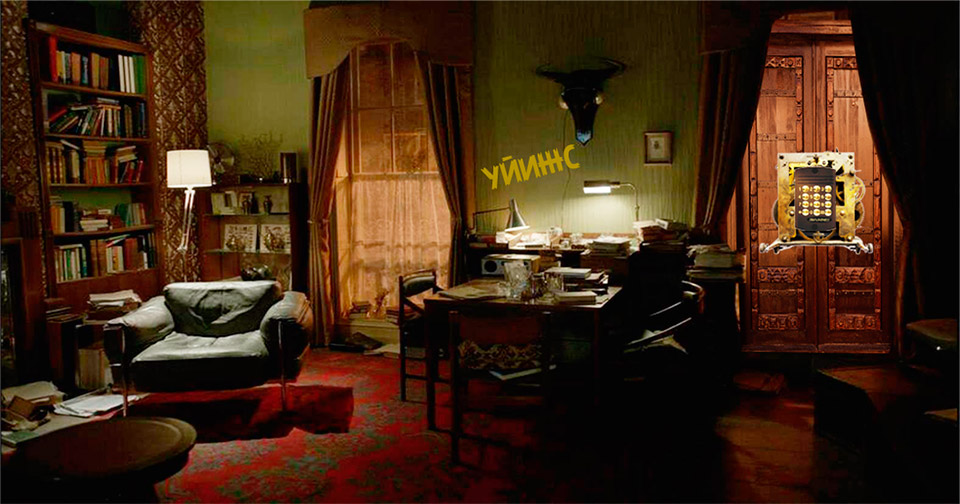
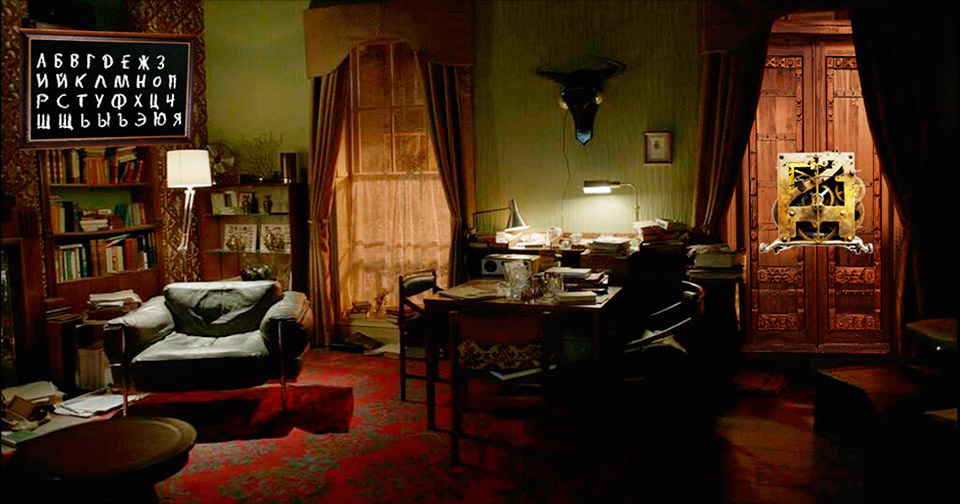
screens with objects

Changed region(s): [[0.0, 0.0595, 0.2188, 0.2976], [0.8125, 0.3274, 0.875, 0.4762], [0.5, 0.2976, 0.5938, 0.3869]]

diff --git a/data/screens.js b/data/screens.js
@@ -95,54 +95,61 @@ var SCREENS = {
 
 	"room_with_objects": {
 		"bg":			"room.jpg",
+		"character": 	"sherlock", 
 		"type":			"select",
 		"speech":		"Хм, пустота.  Вопрос в том, куда все подевались и как пройти дальше?",
 		"objects":		[
 			{
+				"img":		"code.png",
+				"position":	[730,110],
+				"right":	false,
+				"response": "speech::Какой-то кодовый замок.. Надо поискать ключ к разгадке!"	
+			},
+			{
 				"img":		"abgymnic.png",
-				"position":	[0,0],
+				"position":	[280,350],
 				"right":	false,
 				"response": "speech::Решил похудеть и просочиться в дверную щель? Гениально… Зачем я только взял тебя с собой?"
 			},
 			{
 				"img":		"monk_tea.png",
-				"position":	[0,0],
+				"position":	[0,300],
 				"right":	false,
 				"response":	"speech::Сейчас не 4 o'clock. Чаепитие(хотя это и чаем не назовешь) подождет"
 			},
 			{
-				"img":		"tital_gel.png",
-				"position":	[0,0],
+				"img":		"titan_gel.png",
+				"position":	[760,240],
 				"right":	false,
 				"response": "speech::Я уже сомневаюсь, что ты привел меня в пустую комнату искать профит… Может вернемся к делу?"
 			},
 			{
 				"img":		"banana.png",
-				"position":	[0,0],
+				"position":	[550,10],
 				"right":	false,
 				"response": "speech::Это еще что? Не могу представить себе, зачем такие пошлости на работе? Что можно рекламировать ЭТИМ?"
 			},
 			{
 				"img":		"dumplings.png",
-				"position":	[0,0],
+				"position":	[160,-30],
 				"right":	false,
 				"response": "speech::Вы все помешаны на пельмешках? Или это такое плоское чувство юмора?"
 			},
 			{
 				"img":		"waiter.png",
-				"position":	[0,0],
+				"position":	[90,130],
 				"right":	false,
 				"response": "speech::Даже ждун устал наблюдать за твоими попытками… Напрягись, арбитражник!"
 			},
 			{
 				"img":		"games.png",
-				"position":	[0,0],
+				"position":	[240,105],
 				"right":	false,
 				"response": "speech::Отличная мысль. Не завод, так игровые автоматы! Гениально… Зачем тебе вообще профит?"
 			},
 			{
 				"img":		"cipher.png",
-				"position":	[0,0],
+				"position":	[280,20],
 				"right":	true
 			},
 		],
@@ -165,67 +172,67 @@ var SCREENS = {
 		"objects":		[
 			{
 				"img":		"computer.png",
-				"position":	[0,0],
+				"position":	[230,280],
 				"right":	true,
 				"response":	"speech:sherlock::Главное оружие найдено. Но не каждый человек с компьютером — арбитражник. Что еще?"
 			},
 			{
 				"img":		"conversion.png",
-				"position": [20,0],
+				"position": [340,0],
 				"right":	true,
 				"response":	"speech:sherlock::Концентрат полезной информации по манимейкингу в одном месте? Да, это нам пригодится."
 			},
 			{
 				"img":		"sedative.png",
-				"position":	[40,0],
+				"position":	[760,280],
 				"right":	true,
 				"response":	"speech:sherlock::Крепкая нервная система пригодится тебе в борьбе с пельменной."
 			},
 			{
 				"img":		"vodka.png",
-				"position":	[0,100],
+				"position":	[-30,150],
 				"right":	false,
 				"response":	"speech:sherlock::Я, конечно, слышал, что под алкоголем придумываются лучшие связки, но не в твоем случае"
 			},
 			{
 				"img":		"whiskey.png",
-				"position":	[30,100],
+				"position":	[160,260],
 				"right":	false,
 				"response":	"speech:sherlock::Благородный ирландский напиток. Но, его пьют только те, у кого есть профит. У тебя есть?"
 			},
 			{
 				"img":		"headphones.png",
-				"position":	[60,100],
+				"position":	[-20,-10],
 				"right":	false,
 				"response":	"speech:sherlock::Хочешь слушать звук монеток падающих на WebMoney? Без профита тебе это не пригодится"
 			},
 			{
-				"img":		"cigaretes.png",
-				"position":	[90,100],
+				"img":		"cigarettes.png",
+				"position":	[230,370],
 				"right":	false,
 				"response":	"speech:sherlock::Ты бы еще выбрал вэйп. Можно успокоить нервы другим способом."
 			},
 			{
 				"img":		"urna.png",
-				"position":	[120,100],
+				"position":	[20,300],
 				"right":	false,
 				"response":	"speech:sherlock::Не уверен, что мусорное ведро — самый необходимый предмет. Хотя, тебе виднее."
 			},
 			{
 				"img":		"couch.png",
-				"position":	[150,100],
+				"position":	[395,225],
 				"right":	false,
 				"response":	"speech:sherlock::Да, да. Посиди. Тебе же некуда спешить..."
 			},
 			{
 				"img":		"skull.png",
-				"position":	[180,100],
+				"position":	[710,-60],
 				"right":	false,
 				"response":	"speech:sherlock::Решил призвать черную магию? Ты в каком веке живешь? Еще по дереву постучи, авось профит вернется"
 			},
 			{
 				"img":		"notes.png",
-				"position":	[210,100],
+				"position":	[110,130],
 				"right":	false,
 				"response":	"speech:sherlock::Классическая музыка, конечно, улучшает мозговую активность, но тебе нужны более практичные предметы"
 			}

diff --git a/css/style.css b/css/style.css
@@ -66,8 +66,13 @@ body {
   position: absolute;
   cursor: pointer;
 }
+#task .object:hover {
+  -webkit-filter: drop-shadow(0px 0px 20px #fffe00);
+  filter: drop-shadow(0px 0px 20px #fffe00);
+}
 #task .object.selected {
-  box-shadow: 1px 1px black;
+  -webkit-filter: drop-shadow(0px 0px 20px #00ff00);
+  filter: drop-shadow(0px 0px 20px #00ff00);
 }
 #bg {
   position: absolute;
@@ -115,6 +120,27 @@ button:hover:after {
   /* Safari */
   transform: rotate(0deg);
   transition: transform 0.5s ease-in-out;
+}
+#actions .input_wrapper {
+  position: absolute;
+  bottom: -25px;
+  z-index: 0;
+  border-style: solid;
+  border-width: 25px 25px 25px 25px;
+  -moz-border-image: url(/img/ui/button-border.png) 25 25 25 25 round;
+  -webkit-border-image: url(/img/ui/button-border.png) 25 25 25 25 round;
+  -o-border-image: url(/img/ui/button-border.png) 25 25 25 25 round;
+  border-image: url(/img/ui/button-border.png) 25 25 25 25 round;
+}
+#actions .input_wrapper input[type="text"] {
+  border: none;
+  z-index: 1;
+  background-color: white;
+  font-family: "Baron Neue";
+  font-size: 24px;
+  line-height: 60px;
+  padding-left: 20px;
+  padding-right: 20px;
 }
 #actions button {
   position: absolute;
@@ -190,6 +216,7 @@ button:hover:after {
 }
 #task.input #actions button:nth-child(2) {
   right: 40px !important;
+  font-size: 28px;
 }
 .speech_wrapper {
   position: relative;

diff --git a/less/structure/actions.less b/less/structure/actions.less
@@ -1,4 +1,5 @@
 button {
+
 	&:after {
 		z-index: 0;
 		position: absolute;
@@ -40,6 +41,30 @@ button {
 	    -webkit-transform: rotate(0deg); /* Safari */
 	    transform: rotate(0deg);
 		transition: transform 0.5s ease-in-out;
+	}
+
+	.input_wrapper {
+		position: absolute;
+		bottom: -25px;
+		z-index: 0;
+
+		border-style: solid;
+		border-width: 25px 25px 25px 25px;
+		-moz-border-image: url(/img/ui/button-border.png) 25 25 25 25 round;
+		-webkit-border-image: url(/img/ui/button-border.png) 25 25 25 25 round;
+		-o-border-image: url(/img/ui/button-border.png) 25 25 25 25 round;
+		border-image: url(/img/ui/button-border.png) 25 25 25 25 round;
+
+		input[type="text"] {
+			border: none;
+			z-index: 1;
+			background-color: white;
+			font-family: "Baron Neue";
+			font-size: 24px;
+			line-height: 60px;
+			padding-left: 20px;
+			padding-right: 20px;
+		}
 	}
 
 	button {
@@ -133,6 +158,7 @@ button {
 		#actions {
 			button:nth-child(2) {
 				right: 40px !important;
+				font-size: 28px;
 			}
 		}
 	}

diff --git a/js/view.js b/js/view.js
@@ -72,15 +72,20 @@ View.prototype.renderButton = function(buttonObject, callback) {
 View.prototype.renderInput = function(button_text, callback) {
 	var controller = this.controller;
 
+	input_wrapper = $('<div class="input_wrapper"></div>');
+
 	input = $('<input/>', {
 		type: 'text',
+		placeholder: 'ответ'
 	});
+
+	input_wrapper.append(input);
 
 	button = $('<button>', {
 		text: button_text
 	});
 
-	$('#actions').append(input);
+	$('#actions').append(input_wrapper);
 	$('#actions').append(button);
 
 	button.click(function() {
@@ -93,7 +98,7 @@ View.prototype.renderObject = function(object, callback) {
 	var controller = this.controller;
 
 	var objectElement = $('<img/>', {
-		src: 'img/objects/'+object.img
+		src: 'img/objects/'+this.screen.id+'/'+object.img
 	});
 
 	objectElement.addClass('object');

diff --git a/index.html b/index.html
@@ -45,6 +45,19 @@
 		</div>
 	</div>
 
+	<svg height="0" xmlns="http://www.w3.org/2000/svg">
+	    <filter id="drop-shadow">
+	        <feGaussianBlur in="SourceAlpha" stdDeviation="4"/>
+	        <feOffset dx="12" dy="12" result="offsetblur"/>
+	        <feFlood flood-color="rgba(0,0,0,0.5)"/>
+	        <feComposite in2="offsetblur" operator="in"/>
+	        <feMerge>
+	            <feMergeNode/>
+	            <feMergeNode in="SourceGraphic"/>
+	        </feMerge>
+	    </filter>
+	</svg>
+
 	<script>
 		game = new Game();
 		game.start();

diff --git a/less/structure/task.less b/less/structure/task.less
@@ -5,9 +5,15 @@
 	.object {
 		position: absolute;
 		cursor: pointer;
+		
+		&:hover {
+			-webkit-filter: drop-shadow(0px 0px 20px rgba(255,254,0,1));
+	  		filter: drop-shadow(0px 0px 20px rgba(255,254,0,1));
+		}
 
 		&.selected {
-			box-shadow: 1px 1px black;
+			-webkit-filter: drop-shadow(0px 0px 20px rgba(0,255,0,1));
+	  		filter: drop-shadow(0px 0px 20px rgba(0,255,0,1));
 		}
 	}
 

diff --git a/js/screen.js b/js/screen.js
@@ -71,7 +71,7 @@ Screen.prototype.callRenderAnswers = function(view) {
 }
 
 Screen.prototype.callRenderInput = function(view) {
-	var button_text = "Ok",
+	var button_text = ">>",
 		callback = function(input_value) {
 			if (input_value == this.answer) {
 				return this.returnResponseObject(this.response[0]);

diff --git a/data/game.js b/data/game.js
@@ -1,3 +1,4 @@
 var GAME_OPTIONS = {
-	"start_screen": "what_is_arbitrage"
+	//"start_screen": "what_is_arbitrage"
+	"start_screen": "shaves_room"
 }
